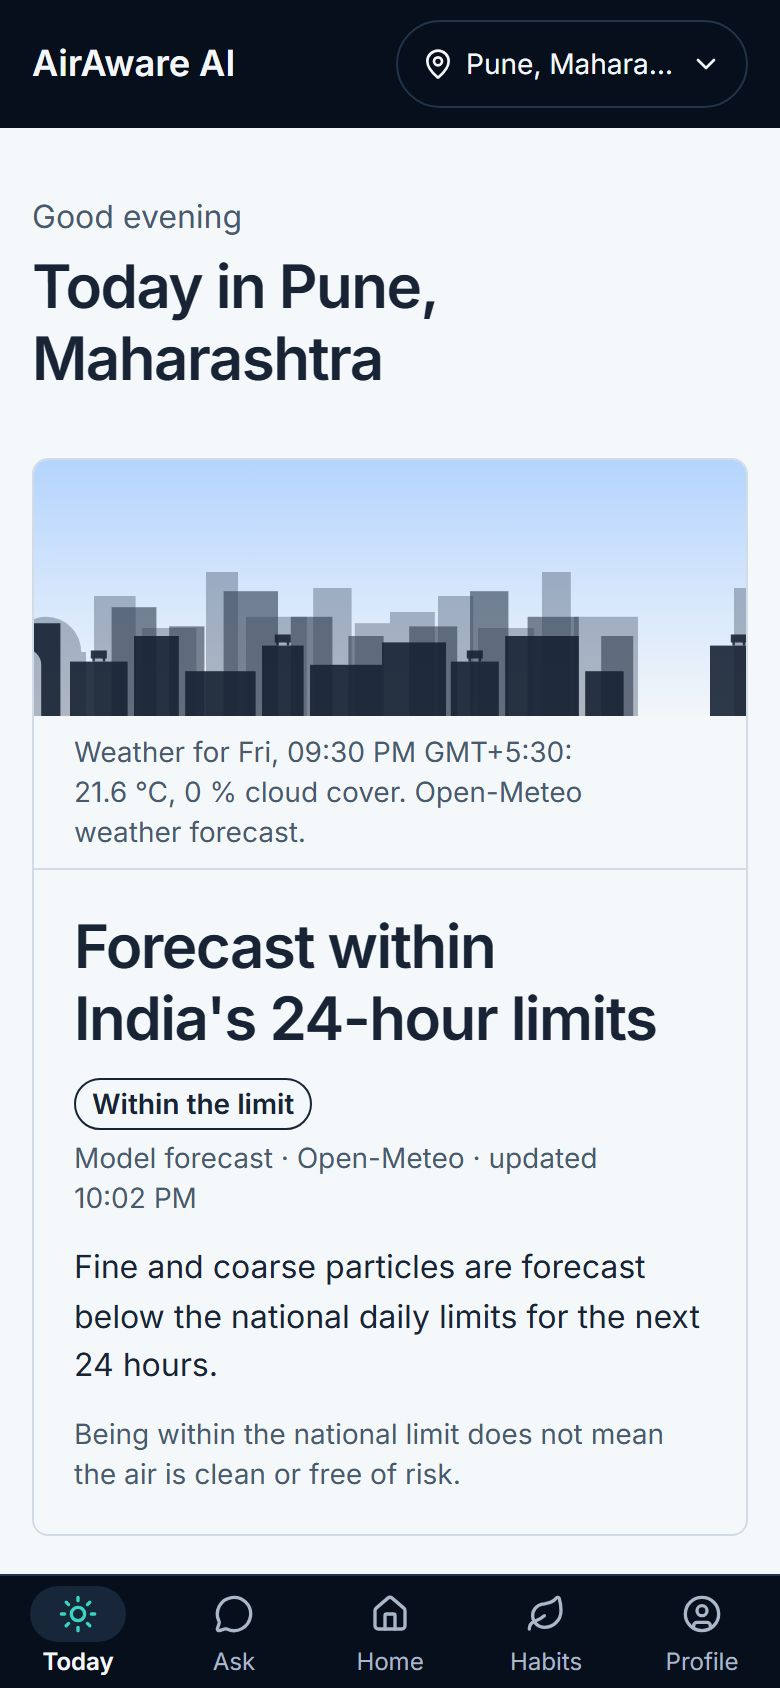
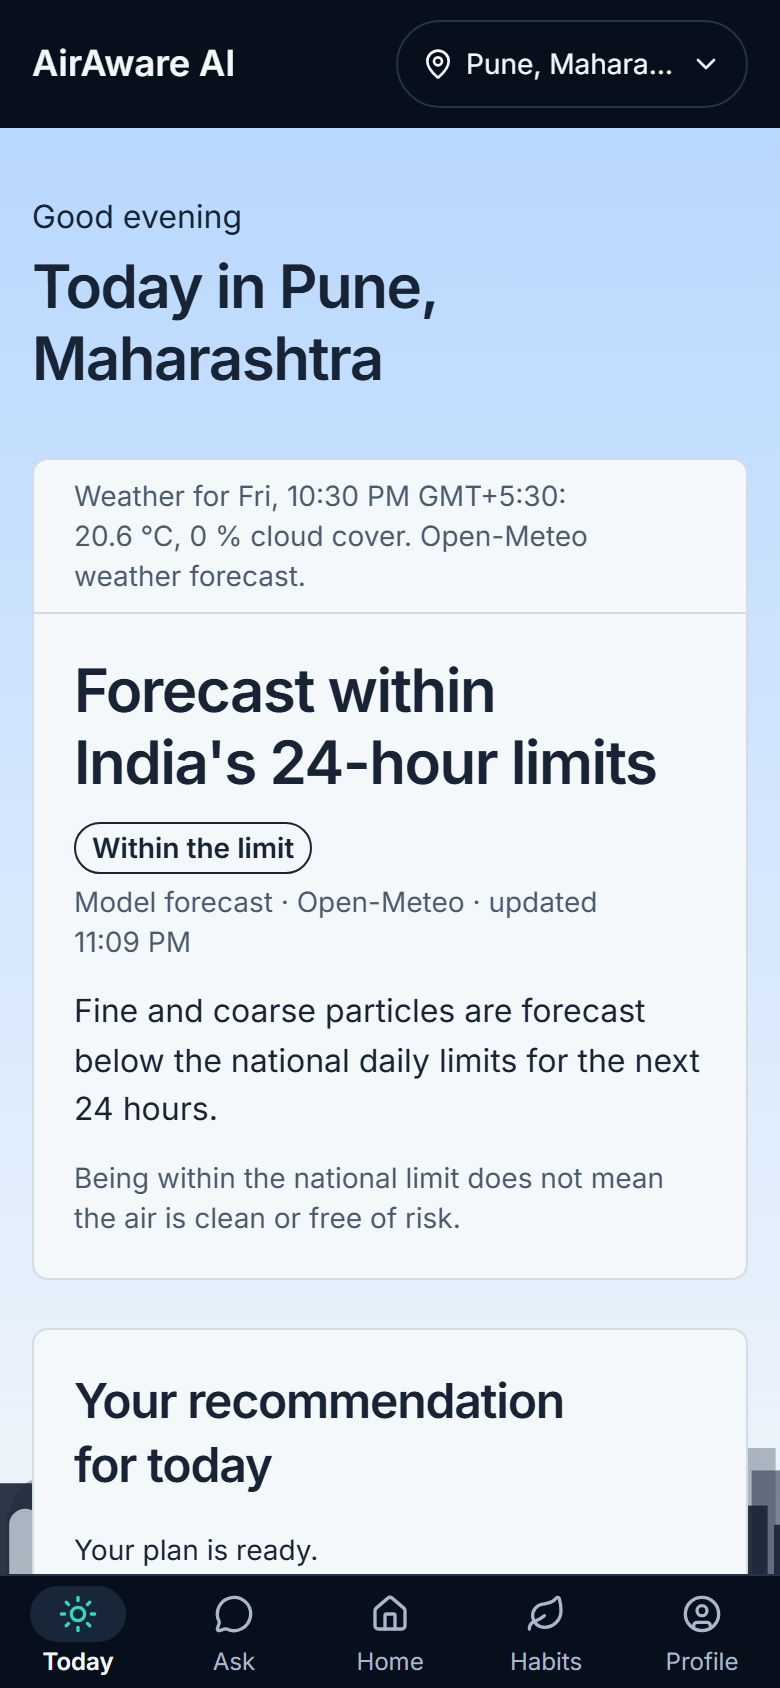
docs: the backdrop in DESIGN, ACCESSIBILITY and CHANGELOG; recapture the landing shot
The contrast check now also lays a rain streak over every cloud, deck
and glow, and adds a rainy overcast sky (worst case 5.24:1). The
landing's phone shot is a live capture of Today for Pune with the new
backdrop (20 Nov 2026, 11:09 PM IST); its caption and alt text hold.

diff --git a/e2e/backdrop.spec.ts b/e2e/backdrop.spec.ts
@@ -180,8 +180,8 @@ test('the backdrop stays put between pages', async ({ page }) => {
 });
 
 // The lowest contrast between the title block's text colours and every
-// colour that can pass behind it: each sky stop alone, and each cloud,
-// deck, glow centre and rain streak over each sky stop.
+// colour that can pass behind it: each sky stop alone, each cloud, deck and
+// glow centre over each sky stop, and a rain streak over all of those.
 function titleContrast(page: Page) {
   return page.evaluate(() => {
     const canvas = document.createElement('canvas');
@@ -223,7 +223,7 @@ function titleContrast(page: Page) {
     )) {
       const style = getComputedStyle(el);
       layers.push({
-        name: 'cloud',
+        name: el.matches('[data-part="cloud-deck"]') ? 'deck' : 'cloud',
         color: rgb(style.fill),
         alpha: Number(style.opacity),
       });
@@ -244,12 +244,23 @@ function titleContrast(page: Page) {
         alpha: Number(getComputedStyle(streak.parentElement!).opacity),
       });
     }
-    const behind = [
+    // Clouds, the deck and the glow over each sky stop; then rain over each
+    // of those and over the bare sky, since a streak can cross any of them.
+    const rain = layers.filter((l) => l.name === 'rain');
+    const bases = [
       ...skies.map((color) => ({ name: 'sky', color })),
-      ...skies.flatMap((base) =>
-        layers.map((l) => ({
-          name: l.name,
-          color: over(l.color, l.alpha, base),
+      ...skies.flatMap((sky) =>
+        layers
+          .filter((l) => l.name !== 'rain')
+          .map((l) => ({ name: l.name, color: over(l.color, l.alpha, sky) })),
+      ),
+    ];
+    const behind = [
+      ...bases,
+      ...bases.flatMap((base) =>
+        rain.map((r) => ({
+          name: `rain over ${base.name}`,
+          color: over(r.color, r.alpha, base.color),
         })),
       ),
     ];
@@ -278,6 +289,7 @@ const SKIES: Array<Partial<WeatherNow>> = [
   { precipitationMm: 1, cloudCoverPercent: 30, isDay: true }, // rain
   { precipitationMm: 0, cloudCoverPercent: 90, isDay: true }, // deck
   { precipitationMm: 0, cloudCoverPercent: 30, isDay: true }, // glow
+  { precipitationMm: 1, cloudCoverPercent: 90, isDay: true }, // rain, deck
 ];
 
 for (const level of ['not_elevated', 'elevated', 'unknown'] as const) {

diff --git a/DESIGN.md b/DESIGN.md
@@ -115,13 +115,16 @@ Never show a large AQI number if its index type is ambiguous. If only PM2.5 is a
   - `AppNav`: one `<nav aria-label="Main">`. It is a bottom bar on phones, inline in the navy top bar from `md`, and marks the current page with `aria-current="page"`, an elevated pill and a teal icon.
   - `PlaceChip`: the place button and a native modal `<dialog>` holding `LocationSearch` and `UseMyLocation`.
   - `Profile`: the household answers, the remembered place ("Forget this place") and saved plans. An opened plan shows below the list under its snapshot banner, with "Close", which returns focus to its Open button.
-  - `TodayLead`: the scene, weather strip, verdict (`h2`), word tag, provenance line, stale banner and caveat.
-  - `CitySkyline` (the scene, adaptive cityscape):
-    - **Layers:** a decorative, `aria-hidden` band of sky gradient, daylight glow, clouds, far, middle and near building rows (rooftop tanks; lit windows from 640 px), veils, and fog, rain or heat.
+  - `TodayLead`: the weather strip (the backdrop's words), verdict (`h2`), word tag, provenance line, stale banner and caveat.
+  - `CitySkyline` (the app backdrop, adaptive cityscape):
+    - **Where:** one fixed, full-screen, `aria-hidden` backdrop behind every `/app/*` page. `AppShell` draws it once and keeps it mounted between pages; it takes no clicks or focus.
+    - **Layers:** a sky gradient over the screen; the daylight glow and clouds under the header; the city band (far, middle and near rows, rooftop tanks, lit windows from 640 px) at the bottom, above the phone bar, never over a fifth of the screen high; veils and fog fading in from the band's top; rain over the whole screen; heat at the city's base.
     - **Air look:** only from `airCheck.level`. Within: a brighter blue sky. Above: a muted blue-grey sky and veils over the far and middle rows. Unknown: a neutral grey sky.
     - **Weather:** clouds, rain (forecast amount only), fog, heat and the glow (`weather.isDay`) follow only the weather.
-    - **Stale:** keeps the last-known look under the HTML "Not current" banner.
-    - **Loading:** a still silhouette of the same city.
+    - **Stale:** keeps the last-known look. The footer adds "Not current." and Today keeps its banner. A same-place hourly reload keeps the look until the new forecast arrives.
+    - **Loading and none:** a still silhouette while a place's first forecast loads; the neutral unknown look with no place or after an error.
+    - **Readability:** every section sits on a solid `bg-surface-light` panel. Only each page's title block (`data-part="title-block"`) rests on the sky, all in `text-dark`, checked at 4.5:1 against every sky, cloud, deck, glow and rain colour (`e2e/backdrop.spec.ts`). Each page ends with space as tall as the city.
+    - **Label:** the footer says "Background: model forecast for {place}." while a forecast is shown.
   - `DailyPlanSection`: builds by itself while Today or My Home is shown (no plan, changed answers, or a plan over an hour old by the device clock), never twice at once. After an error it waits for "Try again". It shows the top card, with the full day in a `<details>`, and reports its state (nothing, building, an error with a retry, a stale plan, or the current one) for My Home, which shows the same states and never a stale plan as today's.
   - `HelpChoices`: four links in a list, each with an icon and one line. Outdoor and Family ask their topic through `useAsk` and open Ask.
   - `AskBox`: a labelled input (200 characters, `enterkeyhint="send"`), "Send", and three starter questions that fill it. Send asks through `useAsk` and opens Ask; the question never goes into the address.
@@ -154,7 +157,8 @@ Never show a large AQI number if its index type is ambiguous. If only PM2.5 is a
 - Landing sections after the hero rise in (opacity, 8 px `translate`) as they scroll into view, from `animation-timeline: view()`, only under `prefers-reduced-motion: no-preference` and where supported; otherwise they are still.
 - The scene's motion, `transform` only and `motion-safe:animate-*`, so it stays still under reduced motion:
   - the rain falls for under 5 seconds, then rests;
-  - the clouds settle 16 px into place over 4.8 s once, then rest.
+  - the clouds settle 16 px into place over 4.8 s once, then rest;
+  - both play when a place's forecast is first drawn, never on a page change or the hourly reload.
   - The heat band and the buildings are still.
 
 ## 10. Responsive behavior

diff --git a/CHANGELOG.md b/CHANGELOG.md
@@ -53,6 +53,12 @@ This project follows a simple Keep a Changelog-inspired structure. Versions and 
   - the forecast's `weather` gains `isDay` (Open-Meteo `is_day`, same request);
   - the clouds settle once over 4.8 s, then rest, and stay still under reduced motion;
   - while the forecast loads, a still silhouette of the same city replaces the pulsing band.
+- Cityscape backdrop (the scene behind every app page):
+  - the adaptive scene is now the background of Today, Ask, My Home, Better Habits, My Profile and onboarding, drawn once and kept between pages;
+  - every section sits on a solid panel; only each page's title block rests on the sky, in the dark text colour;
+  - rain falls over the whole screen, fog stays at the city's base, and the veils fade in from the city's top;
+  - the footer says the background follows the model forecast for the place, and when it is not current;
+  - the hourly reload keeps the scene instead of flashing grey, and the band leaves Today's card, so the verdict sits higher on a phone.
 - Landing (Phase 4 of the assistant redesign):
   - the hero has "Check My Air" (`/app`) and "Meet Your Assistant" (`/app/ask`), the place search under "Or search a city", and a phone screenshot of the new Today page;
   - eight sections: "Understand your air" (with a screenshot of the open Air quality details), the four rule-card chapters renamed "Your personal daily plan", "Improve indoor air", "Sustainable everyday choices" and "Explainable AI", "How AirAware works" (the 4 real steps as a flow, then the limits) and a closing "Check My Air";

diff --git a/ACCESSIBILITY.md b/ACCESSIBILITY.md
@@ -53,6 +53,7 @@ Automated scans do not prove full accessibility conformance.
 **axe in a real browser** (Chromium, colour contrast included, desktop and Pixel 7):
 - `/` and `/privacy`: no violations (`e2e/pages.spec.ts`, 4/4).
 - The dashboard's failure states and the full journey: no violations (`e2e/failures.spec.ts`, `e2e/journey.spec.ts`).
+- The app backdrop (20 Nov 2026): decorative (`aria-hidden`, no focus, no clicks). Every word sits on a solid panel except each page's title block, which is `text-dark` and passes 4.5:1 against every colour that can pass behind it in each look. A browser check finds any text left on the scene, and axe passes over the within, above and unknown looks (`e2e/backdrop.spec.ts`).
 
 **Keyboard walk** (Tab and Shift+Tab only, built-in browser, Vite dev build):
 

diff --git a/docs/superpowers/specs/2026-11-20-adaptive-cityscape-design.md b/docs/superpowers/specs/2026-11-20-adaptive-cityscape-design.md
@@ -3,6 +3,7 @@
 **Status:** approved by the owner on 20 Nov 2026, "Approve as recommended". That covers D1 (a), D2 (a), D3 (a), including the one nullable `weather.isDay` field, D4 (a) and the calls below.
 **Brief:** `AirAware_AI_Adaptive_Cityscape_Background_Spec.md` (repo root).
 **Comparison sheet:** `docs/superpowers/specs/2026-11-20-cityscape-states.html` (open it in a browser). It draws every state from the same geometry.
+**Amended (backdrop, 20 Nov 2026, `2026-11-20-cityscape-backdrop-design.md`):** the scene is now a fixed backdrop behind every app page, not a band in Today's card. The looks, thresholds and motion here are unchanged. §3's rejection of "the scene behind the text" is replaced by solid panels and a checked title block.
 
 ## 1. What exists today (verified in code)
 

diff --git a/docs/superpowers/specs/2026-11-19-weather-scene-design.md b/docs/superpowers/specs/2026-11-19-weather-scene-design.md
@@ -61,7 +61,7 @@ The owner wants the scene to change automatically with conditions: haze, fog, po
 - "Smoke" or any cause named for the pollution.
 - The air forecast failing, or slowing much, because of the weather call.
 - Motion that ignores reduced-motion settings, or animation that drops frames.
-- Text placed on top of the scene.
+- Text placed on top of the scene. *Amended (backdrop, 20 Nov 2026): only each page's title block may rest on the sky, checked at 4.5:1; never on the city or fog.*
 
 ## Constraints
 
